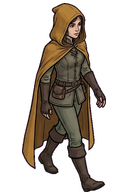
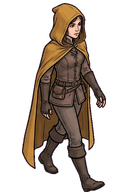
Grade the hero's walk onto one palette instead of repainting it
Two faults, and only one of them was in the numbers.

The passing frame is 11-12% underexposed in both facings, so the hero pulses
darker twice per two steps. That is a colour grade and a grade fixes it.

The one the report was actually about is not in the table at all: the two
passing frames wear a GREEN tunic where every other frame paints warm tan,
1,664 pixels, 19% of the figure. ART_ASSETS.md asks each pose for "same
character, same cloak, same colours, same height" and the generator answered
the pose and changed the clothes.

tools/hero_palette.gd does both without regenerating anything. Exposure is
multiplied to the median of that facing's three agreeing frames. The garment
is a hue band with a saturation ceiling, and the ceiling is why it is safe:
the cloak lives in the same hue band and never drops below 0.35 saturation
even in its deepest folds, so a 0.30 ceiling cannot reach it. The cloak stays
gold over tan clothes, which is what was asked for.

Two other transforms were written, rendered and thrown away. One target for
all eight turned the north set pale — the back of a cloak in full light is
honestly more saturated than the shaded front. Matching hue within a facing
was worse than doing nothing: a mean hue dragged down by shadow, rotated to
agree, overshoots the lit surface into yellow-green. Both improved every
number in the report.

D324.

Claude-Session: https://claude.ai/code/session_01MHTEiJ4Rg7aeV3uPFhdWBi

diff --git a/DESIGN.md b/DESIGN.md
@@ -303,6 +303,7 @@ Entries are not in numeric order in the file below; this is the way in.
 | **D319** | [One sentence, said three ways, and the last one to speak won](#d319--one-sentence-said-three-ways-and-the-last-one-to-speak-won) |
 | **D320** | [Creature size came off the stat block, and the skeleton came out knee-high](#d320--creature-size-came-off-the-stat-block-and-the-skeleton-came-out-knee-high) |
 | **D321** | [`git add` stages the FILE, not the change you wrote](#d321--git-add-stages-the-file-not-the-change-you-wrote) |
+| **D324** | [The walk cycle changed clothes, and a colour grade fixed half of it](#d324--the-walk-cycle-changed-clothes-and-a-colour-grade-fixed-half-of-it) |
 
 **D1–D34 are not in that table.** They were settled before the log grew
 sections and live as bullets under [§4 Design decisions](#4-design-decisions).
@@ -22343,3 +22344,77 @@ is the only set the git history cannot show you.
 that reads it — `git add`, `grep`, a test run, a generated document — is answering a question
 about the union. When you need to know what YOUR change is, build a tree that contains only it
 and ask that.
+
+### D324 — The walk cycle changed clothes, and a colour grade fixed half of it
+
+The report: *"Can we do anything for the alternating colour of the clothes of the hero? Can we
+avoid regenerating it via gemini but just apply a script to make the colour uniform?"* —
+followed by the constraint that matters: *"with uniform I mean uniform across all the sprites.
+I am fine with the cloak being of a different colour than the clothes."*
+
+`tools/hero_palette.gd`, and the answer is yes. There was no regeneration.
+
+#### Two faults, and the measurement only found one of them
+
+Measured over the cloak — every pixel at 0.35 saturation or more — across the eight files:
+
+| file | hue | sat | value at p90 |
+|---|---|---|---|
+| hero_s | 60 | 0.58 | 0.745 |
+| hero_s_a | 63 | 0.60 | 0.773 |
+| **hero_s_p** | 54 | 0.59 | **0.663** |
+| hero_s_b | 59 | 0.59 | 0.753 |
+| hero_n | 53 | 0.69 | 0.714 |
+| hero_n_a | 54 | 0.68 | 0.753 |
+| **hero_n_p** | 45 | 0.65 | **0.671** |
+| hero_n_b | 52 | 0.68 | 0.761 |
+
+The passing frame is 11-12% underexposed in both facings. One frame in four, on the figure the
+player watches longest: she pulses darker twice per two steps.
+
+**The fault the player was actually reporting is not in that table at all.** The two passing
+frames wear a GREEN tunic and green trousers where every other frame paints warm tan — 1,664
+pixels, 19% of the figure. `ART_ASSETS.md` asks each pose for *"same character, same cloak,
+same colours, same height"*, and the generator answered the pose and changed the clothes. A
+hue-and-exposure table cannot see that, because the garment is a small, low-saturation part of
+an image whose statistics the cloak dominates.
+
+#### Three transforms, two of them thrown away after looking at the render
+
+**One target for all eight.** Every number in the report improved and the north set came out a
+flat pale yellow. The north set measures 0.09 more saturated than the south set, and that is
+not drift: the back of a cloak in full light IS more saturated than the front, which is mostly
+shaded inner folds.
+
+**Matching hue within a facing.** Worse than doing nothing. A file's mean cloak hue is dragged
+down by its shadowed folds, so `hero_n_p` reads 45 degrees against its siblings' 52-54 —
+rotating it +8 to agree overshoots the LIT surface, which was already gold, into yellow-green.
+The frame ended further from its siblings than it started, with the report saying it had
+converged.
+
+**Exposure only, within a facing, plus a targeted garment recolour.** Shipped.
+
+#### What shipped
+
+Exposure is multiplied to the median p90 of that facing's three AGREEING frames — the idle and
+the two contacts, with the outlier kept out of the target it is about to be corrected to.
+Multiplicative, so the darkest fold stays the darkest fold.
+
+The garment is a hue band with a saturation CEILING, rotated from 35-70 degrees to 18 and
+lifted by a third. **The ceiling is the whole of why it is safe**: the cloak lives in the same
+hue band and never falls below 0.35 saturation even in its deepest folds, so a ceiling of 0.30
+cannot reach it. That is what keeps a gold cloak over tan clothes instead of turning the figure
+brown, and it is what the report asked for — the cloak is *supposed* to be a different colour.
+
+The band is applied to all eight files rather than to the two that need it, and the pixel counts
+are the proof that it is a selection rather than a guess: 2,013 on `hero_s_p`, 171 on
+`hero_n_p`, and 0 or 1 on the other six. A rule that names its own exceptions is a rule that is
+wrong the day a ninth file arrives.
+
+#### The rule
+
+**A statistic over a whole image cannot see a small region that is the wrong colour, and it
+will confidently report that region as converged.** Two of the three transforms here were
+adopted on improving numbers and rejected on sight. Every one of them was rendered
+side by side with the original before it was believed — which is now written into the tool's own
+header as the condition for changing it.
